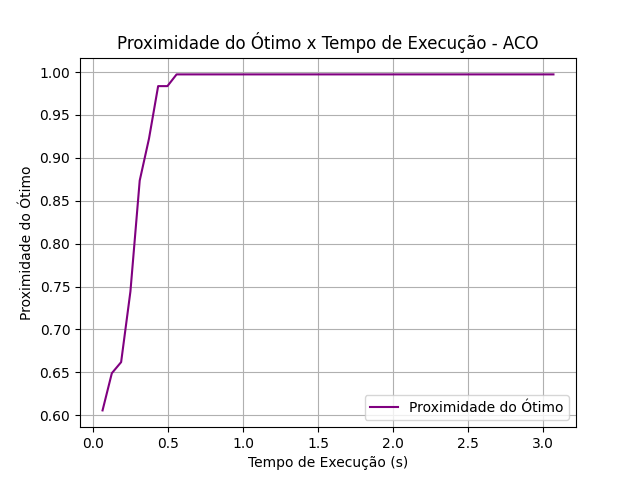
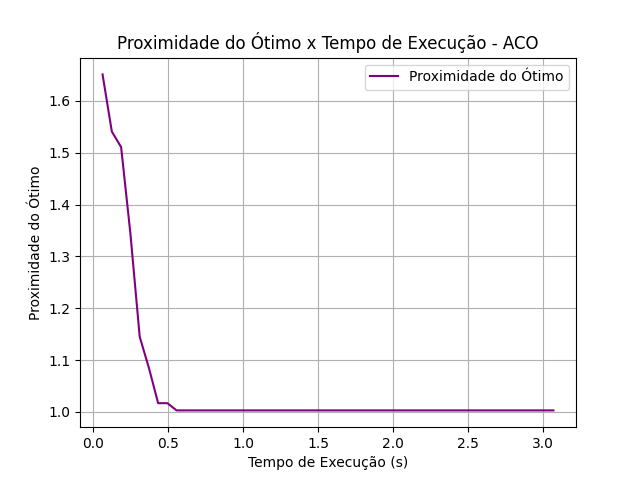
Adiciona graficos resultados 100

diff --git a/resultados/100/analise_100.py b/resultados/100/analise_100.py
@@ -15,82 +15,71 @@ def load_data(filename, has_iterations=True):
 # Função para calcular métricas
 def calculate_metrics(data, optimal_distance, random_distance):
     data["Improvement Rate"] = 1 - (data["Total Distance"] / data["Total Distance"].iloc[0])
-    data["Optimal Proximity"] = optimal_distance / data["Total Distance"]
-    data["Better Than Random"] = random_distance / data["Total Distance"]
     data["Convergence Rate"] = data["Improvement Rate"].diff().fillna(0)
     return data
 
-# Função para gerar gráficos
-def plot_graphs(data, algorithm_name, optimal_distance, random_distance, is_iterative=True):
-    plt.figure(figsize=(10, 6))
-    
-    if is_iterative:
-        # Gráfico: Taxa de melhoria x Tempo de execução
-        plt.plot(data["Execution Time"], data["Improvement Rate"], label="Taxa de Melhoria", color='blue')
-        plt.title(f"Taxa de Melhoria x Tempo de Execução - {algorithm_name}")
-        plt.xlabel("Tempo de Execução (s)")
-        plt.ylabel("Taxa de Melhoria")
-        plt.grid()
-        plt.legend()
-        plt.savefig(f"{algorithm_name}_taxa_de_melhoria.png")
-        plt.show()
-        
-        # Gráfico: Taxa de convergência x Tempo de execução
-        plt.plot(data["Execution Time"], data["Convergence Rate"], label="Taxa de Convergência", color='orange')
-        plt.title(f"Taxa de Convergência x Tempo de Execução - {algorithm_name}")
-        plt.xlabel("Tempo de Execução (s)")
-        plt.ylabel("Taxa de Convergência")
-        plt.grid()
-        plt.legend()
-        plt.savefig(f"{algorithm_name}_taxa_de_convergencia.png")
-        plt.show()
+# Função para gerar gráficos comparativos
+def plot_comparative_graphs(data_dict, optimal_distance):
+    plt.figure(figsize=(12, 8))
+
+    # Gráfico: Taxa de melhoria x Tempo de execução
+    # plt.subplot(3, 1, 1)
+    for algorithm_name, data in data_dict.items():
+        plt.plot(data["Execution Time"], data["Improvement Rate"], label=f"{algorithm_name} - Taxa de Melhoria")
+    plt.title("Taxa de Melhoria x Tempo de Execução")
+    plt.xlabel("Tempo de Execução (s)")
+    plt.ylabel("Taxa de Melhoria")
+    plt.grid()
+    plt.legend()
+
+    plt.figure(figsize=(24, 5))
+
+    # Gráfico: Taxa de convergência x Tempo de execução
+    # plt.subplot(3, 1, 2)
+    for algorithm_name, data in data_dict.items():
+        plt.plot(data["Execution Time"], data["Convergence Rate"], label=f"{algorithm_name} - Taxa de Convergência")
+    plt.title("Taxa de Convergência x Tempo de Execução")
+    plt.xlabel("Tempo de Execução (s)")
+    plt.ylabel("Taxa de Convergência")
+    plt.grid()
+    plt.legend()
+
+    plt.figure(figsize=(12, 8))
 
     # Gráfico: Distância total x Tempo de execução
-    plt.plot(data["Execution Time"], data["Total Distance"], label="Distância Total", color='green')
+    # plt.subplot(3, 1, 3)
+    for algorithm_name, data in data_dict.items():
+        plt.plot(data["Execution Time"], data["Total Distance"], label=f"{algorithm_name} - Distância Total")
     plt.axhline(y=optimal_distance, color='red', linestyle='--', label="Distância Ótima")
-    plt.title(f"Distância Total x Tempo de Execução - {algorithm_name}")
+    plt.title("Distância Total x Tempo de Execução")
     plt.xlabel("Tempo de Execução (s)")
     plt.ylabel("Distância Total")
     plt.grid()
     plt.legend()
-    plt.savefig(f"{algorithm_name}_distancia_total.png")
-    plt.show()
 
-    # Gráfico: Proximidade do ótimo x Tempo de execução
-    plt.plot(data["Execution Time"], data["Optimal Proximity"], label="Proximidade do Ótimo", color='purple')
-    plt.title(f"Proximidade do Ótimo x Tempo de Execução - {algorithm_name}")
-    plt.xlabel("Tempo de Execução (s)")
-    plt.ylabel("Proximidade do Ótimo")
-    plt.grid()
-    plt.legend()
-    plt.savefig(f"{algorithm_name}_proximidade_do_otimo.png")
+    plt.tight_layout()
+    plt.savefig("comparative_graphs.png")
     plt.show()
-
-    # Gráfico: Quão melhor que o aleatório x Tempo de execução
-    plt.plot(data["Execution Time"], data["Better Than Random"], label="Melhor que Aleatório", color='brown')
-    plt.title(f"Melhor que Aleatório x Tempo de Execução - {algorithm_name}")
-    plt.xlabel("Tempo de Execução (s)")
-    plt.ylabel("Melhor que Aleatório")
-    plt.grid()
-    plt.legend()
-    plt.savefig(f"{algorithm_name}_melhor_que_aleatorio.png")
-    plt.show()
-
 
 # Processando os arquivos
 aco_data = load_data("log_aco_100_100_2.60_3.00_0.40_10.00_50.txt")
 ga_data = load_data("log_ga_100_0.15_250_7000.txt")
 grasp_data = load_data("log_grasp_100_0.25_4000.txt")
-nn_data = load_data("log_nn_100.txt", has_iterations=False)
+# nn_data = load_data("log_nn_100.txt", has_iterations=False)
 
 # Calculando métricas
 aco_data = calculate_metrics(aco_data, optimal_distance, random_distance)
 ga_data = calculate_metrics(ga_data, optimal_distance, random_distance)
 grasp_data = calculate_metrics(grasp_data, optimal_distance, random_distance)
-nn_data = calculate_metrics(nn_data, optimal_distance, random_distance)
+# nn_data = calculate_metrics(nn_data, optimal_distance, random_distance)
 
-# Gerando gráficos para cada algoritmo
-plot_graphs(aco_data, "ACO", optimal_distance, random_distance)
-plot_graphs(ga_data, "GA", optimal_distance, random_distance)
-plot_graphs(grasp_data, "GRASP", optimal_distance, random_distance)
-plot_graphs(nn_data, "NN", optimal_distance, random_distance, is_iterative=False)
+# Criando dicionário de dados
+data_dict = {
+    "ACO": aco_data,
+    "GA": ga_data,
+    "GRASP": grasp_data
+    # "NN": nn_data
+}
+
+# Gerando gráficos comparativos
+plot_comparative_graphs(data_dict, optimal_distance)
